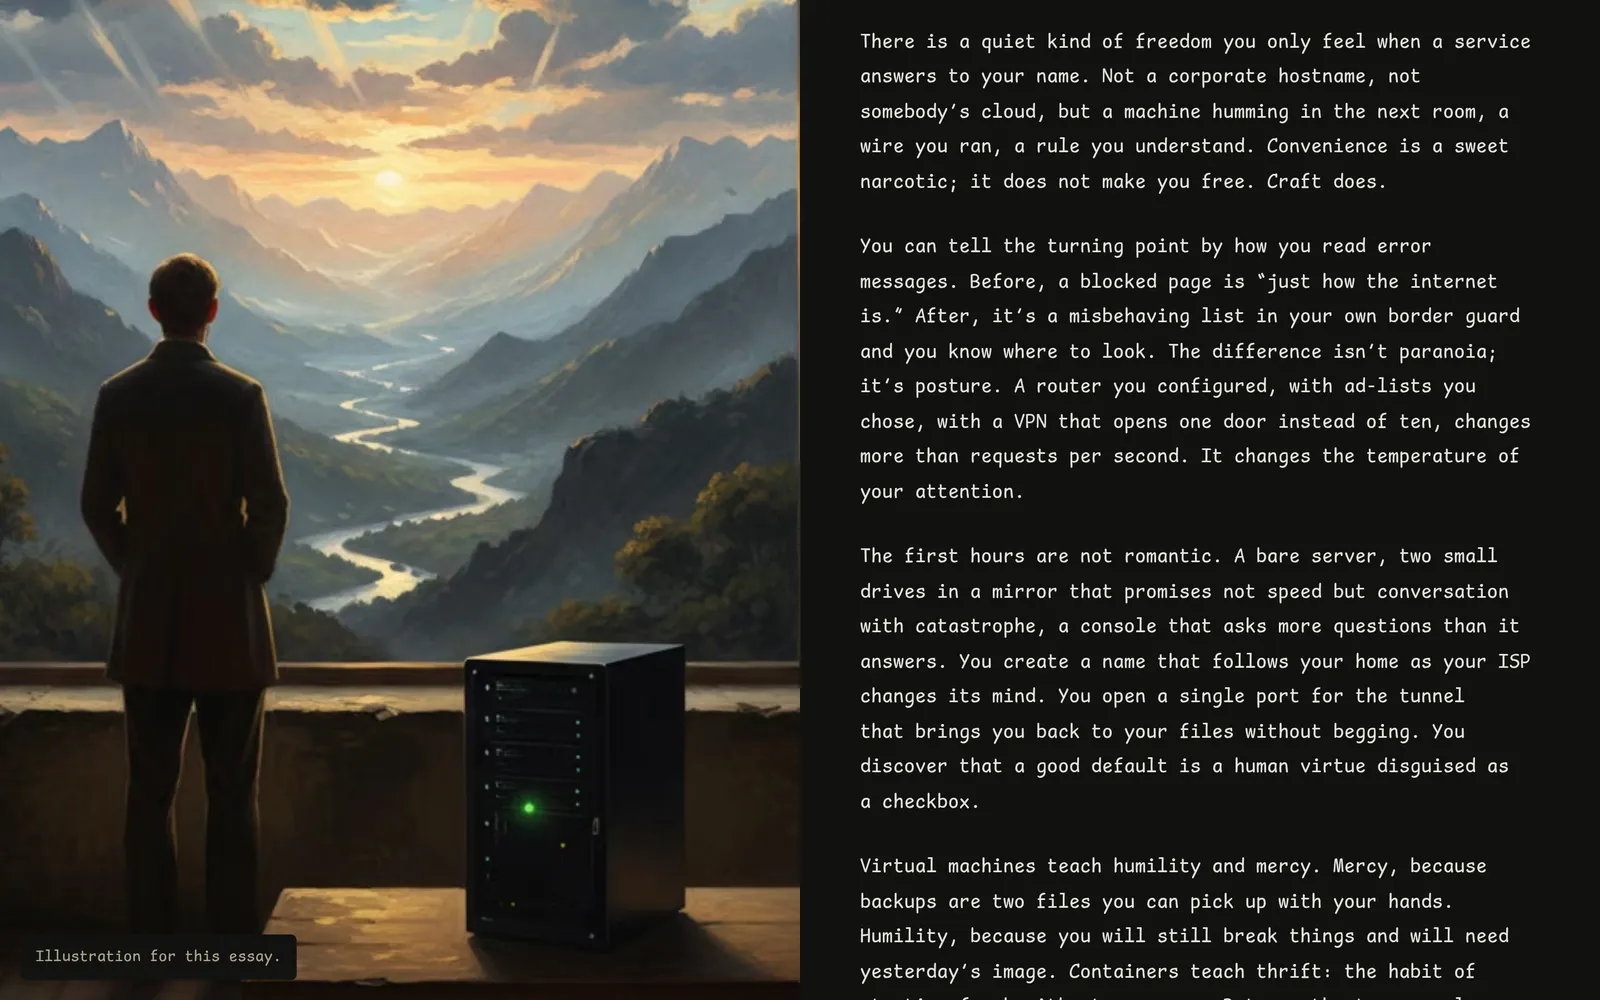
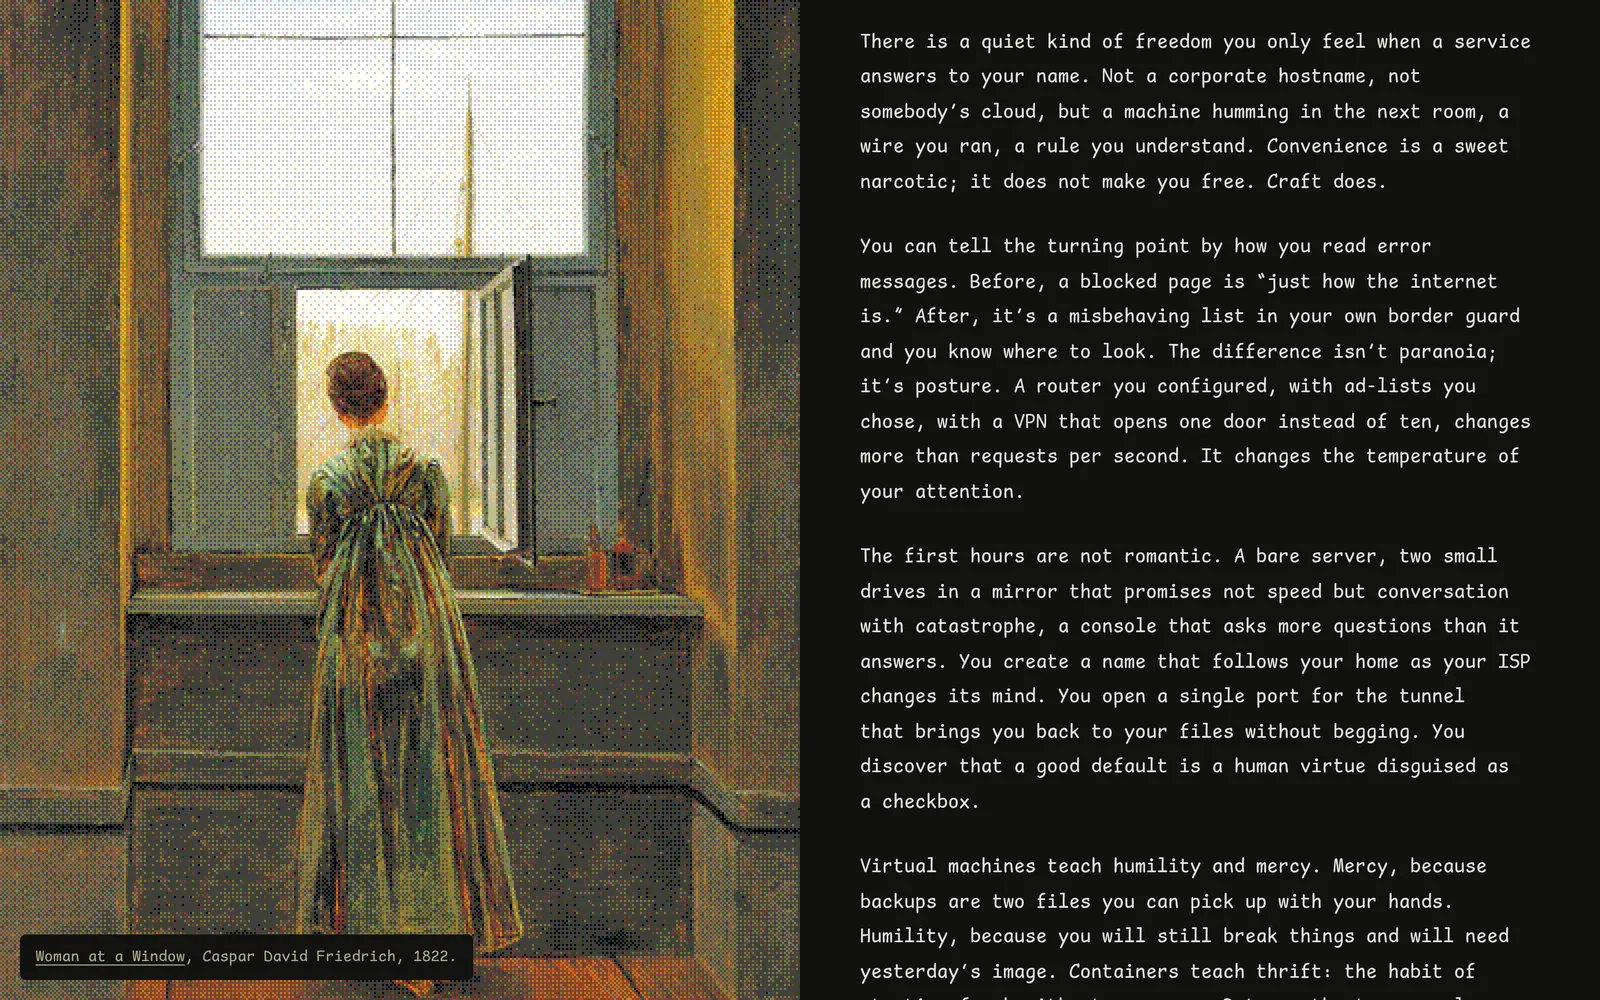
docs: v2.1.0, new screenshots, the painting recipe
- README: every screenshot retaken; a row for the seven paintings; the
  layout, weight and Lighthouse numbers as measured; paint.sh in Add an
  essay and Change a painting; credits for each painting.
- EASTER_EGGS.md: the Galt door and the Assange fix.
- CHANGELOG.md: 2.1.0.

diff --git a/README.md b/README.md
@@ -1,6 +1,6 @@
 # promaa.tech - the personal site of Marc Duboc
 
-**Machines, essays and books, written in one comic monospace beside one painting.** The site of a robotics and embedded systems engineer: five builds, five essays, a bilingual shelf of twenty-one books, and the reading guides that go with it. Live at **[promaa.tech](https://promaa.tech)**.
+**Machines, essays and books, written in one comic monospace, each page beside its own painting.** The site of a robotics and embedded systems engineer: five builds, five essays, a bilingual shelf of twenty-one books, and the reading guides that go with it. Live at **[promaa.tech](https://promaa.tech)**.
 
 ```bash
 python3 -m http.server 8000   # then open http://localhost:8000
@@ -13,7 +13,7 @@ python3 -m http.server 8000   # then open http://localhost:8000
 
 Plain HTML, CSS and a few kilobytes of vanilla JavaScript, served by GitHub Pages straight from `main`. No framework, no build step, no tracker, no cookie. Every page reads fine with JavaScript off.
 
-![The homepage on a wide screen: an AI painting of an astronomer at a brass telescope fills the left half; on the right, Marc Duboc in red and the text in blue ink](.github/readme/home.webp)
+![The homepage on a wide screen: Aivazovsky's The Ninth Wave, redrawn in coloured dots, fills the left half; on the right, Marc Duboc in red and the text in blue ink](.github/readme/home.webp)
 
 ## Gallery
 
@@ -21,17 +21,19 @@ Plain HTML, CSS and a few kilobytes of vanilla JavaScript, served by GitHub Page
 | --- | --- |
 | ![The homepage in the light theme and in the dark theme, side by side](.github/readme/themes.webp) | **By day, by lamplight.** Blue ink on paper, or parchment on a warm black. The theme follows the system, and the toggle remembers your choice. |
 | ![Three phones: the homepage with its tilted postcard, an essay in the dark theme, and the French shelf](.github/readme/phones.webp) | **On a phone** the painting becomes a postcard slipped into the letter. Essays and the shelf keep one readable column. |
-| ![An essay in the dark theme, its illustration held still on the left while the text runs on the right](.github/readme/essay.webp) | **Essays** keep their illustration still on the left while the text scrolls, with previous and next links at the end. |
+| ![An essay in the dark theme: Friedrich's Woman at a Window held still on the left while the text runs on the right](.github/readme/essay.webp) | **Essays** keep their painting still on the left while the text scrolls, with previous and next links at the end. |
+| ![Seven paintings in a row: The Ninth Wave, The Monk by the Sea, Woman before the Rising Sun, Woman at a Window, The Tower of Babel, Max Schmitt in a Single Scull, and Hokusai's whale in blue ink](.github/readme/paintings.webp) | **One painting per page**, all in the public domain: Aivazovsky, Friedrich, Bruegel, Eakins and Hokusai, redrawn in dots. Each one weighs 40 to 100 KB. |
 | ![The bookshelf searched for dumas: one book left, The Count of Monte Cristo](.github/readme/search.webp) | **The shelf** lists twenty-one books in English and French as static HTML. The search narrows it as you type. |
 | ![First page of the reading guide PDF, in the same blue and red monospace](.github/readme/guide.webp) | **Reading guides**: the same shelf typeset as a PDF with XeLaTeX, generated from the same JSON. |
 
 ## Features
 
-- **Diptych layout**: on a wide screen the painting holds the left half while the text scrolls on the right. On a phone it becomes a postcard.
+- **Diptych layout**: on a wide, landscape screen the painting holds the left half while the text scrolls on the right. Phones and upright tablets get a postcard instead, never taller than the screen. On ultra-wide screens the panel stops at 95% of the height and the text is centred in the space left.
+- **Paintings in dots**: public-domain paintings redrawn as 400×500 dots with an ordered dither, saved as lossless WebP at 2×, 3× and 4×. Each page sets the painting's focal point, so the panel crops around the subject at any screen ratio.
 - **One family, one weight**: Comic Shanns Mono, standing in for Comic Code. Hierarchy comes from size and colour only: blue ink, and a red for what matters.
 - **Light and dark**: both themes are designed, not inverted. Theme switches never animate.
 - **Bilingual shelf**: `/books/` and `/books/fr/` are generated from `books/books-en.json` and `books/books-fr.json`, the single source that also feeds the PDF guides.
-- **Fast**: about 12 KB of HTML, CSS and JavaScript on the homepage (gzipped) and one 15 KB font. Images are AVIF with a WebP fallback, sized to their slot. Links prerender on hover with Speculation Rules.
+- **Fast**: the homepage weighs 95 KB in all: about 13 KB of HTML, CSS and JavaScript (gzipped), one 15 KB font and a 50 KB painting. The painting is preloaded and picked from `srcset` by the panel's real size. Links prerender on hover with Speculation Rules.
 - **Accessible**: skip link, visible focus, 44 px targets, landmarks for screen readers, reduced motion respected. Contrast is checked in both themes with axe.
 - **Works without JavaScript**: every page and both shelves are plain HTML. Script adds the theme toggle, the search and the copy button on top.
 - **Prints cleanly**: a print stylesheet turns any page into a plain letter.
@@ -42,11 +44,12 @@ Lighthouse, mobile profile:
 
 | Page | Performance | Accessibility | Best practices | SEO | LCP | CLS |
 | --- | --- | --- | --- | --- | --- | --- |
-| `/` | 100 | 100 | 100 | 100 | 1.8 s | 0 |
-| `/essays/` | 100 | 100 | 100 | 100 | 1.7 s | 0 |
-| `/essays/lucid-hope/` | 100 | 100 | 100 | 100 | 1.4 s | 0 |
+| `/` | 100 | 100 | 100 | 100 | 1.7 s | 0 |
+| `/essays/` | 100 | 100 | 100 | 100 | 1.4 s | 0 |
+| `/essays/lucid-hope/` | 100 | 100 | 100 | 100 | 1.7 s | 0 |
+| `/essays/collapse-of-money/` | 100 | 100 | 100 | 100 | 1.8 s | 0 |
 | `/books/` | 100 | 100 | 100 | 100 | 1.4 s | 0 |
-| `/books/fr/` | 100 | 100 | 100 | 100 | 1.4 s | 0 |
+| `/books/fr/` | 100 | 100 | 100 | 100 | 1.5 s | 0 |
 
 The 404 page is `noindex` on purpose, so it is left out of the SEO column.
 
@@ -87,18 +90,14 @@ AAAA  @   2606:50c0:8003::153
 
 1. Copy an existing essay folder, for example `essays/lucid-hope/`, to `essays/<slug>/`.
 2. In its `index.html`, change the title, the description, the canonical URL, the dates (`<time>`, `article:published_time` and the JSON-LD), and the paragraphs inside `<article class="prose">`.
-3. Replace the illustration, starting from a source image `picture.png`:
+3. Make its painting and its social card (see [Change a painting](#change-a-painting)):
 
 ```bash
-cd essays/<slug>
-for w in 600 1024; do
-  magick picture.png -resize ${w}x -strip -quality 55 picture-$w.avif
-  magick picture.png -resize ${w}x -strip -quality 72 picture-$w.webp
-done
-rm picture.png
+./paint.sh dots crop.png essays/<slug>/painting
+./paint.sh card essays/<slug>/painting "Essay title" "The one-line description." "An essay by Marc Duboc · promaa.tech" essays/<slug>/og.jpg
 ```
 
-4. Set the `width` and `height` of the `<img>` to the 1024px version (`identify picture-1024.webp`) and write a real `alt`.
+4. In the `<figure class="painting">`, write a real `alt`, the credit in the `<figcaption>`, and the focal point in `style="--panel-focus: x% y%"`.
 5. Link it from `essays/index.html`, from the list on the homepage, and from the previous and next essays. Then add it to `sitemap.xml`.
 
 ## Add a book
@@ -137,14 +136,31 @@ magick cover.jpg -resize 240x -strip -quality 82 -interlace JPEG assets/images/b
 
 This needs Python 3, ImageMagick (to read the cover sizes) and [tectonic](https://tectonic-typesetting.github.io/), either on `PATH` or in `.tools/tectonic`. It rewrites `books/index.html`, `books/fr/index.html`, both `.tex` files, and both PDFs in `assets/docs/`.
 
-## Change the painting
+## Change a painting
 
-The homepage painting appears in three places:
-- the `<picture>` in `index.html`;
-- its preload in the `<head>`;
-- `assets/images/og.jpg`, the social preview.
+Every page with a painting has the same three pieces: the `<figure class="painting">`, the image preload in the `<head>`, and a social card (`og.jpg`). `paint.sh` makes the images; it needs ImageMagick 7.
 
-Produce the variants the same way as an essay illustration (`astronomer-400` and `astronomer-853`, in AVIF and WebP). Then update the `alt` and the credit in the `<figcaption>`. If the subject sits off-centre, also adjust `--panel-focus` in `assets/css/tokens.css`.
+1. Pick a picture you may publish, ideally a public-domain painting at least 1600 px tall, with its subject near the middle.
+2. Crop it to 4:5, the ratio of the panel. For example, to keep a 2064 px wide slice starting 810 px from the left:
+
+```bash
+magick source.jpg -crop 2064x2580+810+0 +repage crop.png
+```
+
+3. Make the three sizes, in coloured dots or in the site's blue ink:
+
+```bash
+./paint.sh dots crop.png assets/images/ninth-wave   # ninth-wave-800.webp, -1200, -1600
+./paint.sh ink crop.png assets/images/goto-whaling   # for a print: ink on paper, inverted in the dark theme
+```
+
+4. Make the social card, 1200×630, the painting beside the page title:
+
+```bash
+./paint.sh card assets/images/ninth-wave "Marc Duboc" "Robotics & embedded systems engineer." "promaa.tech · Seoul" assets/images/og.jpg
+```
+
+5. In the page, point the `src`, `srcset` and preload `imagesrcset` at the new files, and write the `alt` and the credit. Set `--panel-focus` on the figure to the point the panel must keep in view when it crops, for example `style="--panel-focus: 40% 80%"` for the sailors at the bottom of *The Ninth Wave*. A print drawn in ink takes the class `painting ink`.
 
 ## Design tokens
 
@@ -153,7 +169,7 @@ Produce the variants the same way as an essay illustration (`astronomer-400` and
 - **Type and space**: fluid `clamp()` scales from [Utopia](https://utopia.fyi), 16 to 18 px between 320 and 1440 px viewports.
 - **Colour**: [Open Props](https://open-props.style) values. Light is blue ink on paper with a red accent. Dark reads the same letter by lamplight: parchment text on a warm black, with the same red for what matters.
 - **Motion**: three tokens, curves from [Kinetics](https://kinetics.colorion.co) sampled into `linear()`. Reduced motion shortens or removes all of them.
-- **Breakpoint**: one, at `56rem`, where the painting becomes a fixed panel. Media queries cannot read custom properties, so the value is written in `site.css` and documented in `tokens.css`.
+- **Breakpoint**: one, at `56rem` on a screen at least 5:4 wide, where the painting becomes a fixed panel `--panel-width` wide. Media queries cannot read custom properties, so the query is written in `site.css` and in each image's `sizes`, and documented in `tokens.css`.
 
 ## Using Comic Code
 
@@ -175,7 +191,14 @@ Changes land through pull requests and are recorded in [CHANGELOG.md](CHANGELOG.
 ## Credits
 
 - **Font**: [Comic Shanns Mono](https://github.com/jesusmgg/comic-shanns-mono) by Shannon Miwa and Jesus Gonzalez, under the MIT licence ([LICENSE](assets/fonts/LICENSE-comic-shanns-mono.md)). A middle dot glyph was added for this site.
-- **Homepage painting**: *The astronomer*, AI-generated, by [Suraajm20 on Pixabay](https://pixabay.com/illustrations/ai-generated-steampunk-astronomer-9610010/), under the [Pixabay Content License](https://pixabay.com/service/license-summary/).
+- **Paintings**, all in the public domain, redrawn in dots for this site:
+  - [*The Ninth Wave*](https://commons.wikimedia.org/wiki/File:Hovhannes_Aivazovsky_-_The_Ninth_Wave_-_Google_Art_Project.jpg), Ivan Aivazovsky, 1850;
+  - [*The Monk by the Sea*](https://commons.wikimedia.org/wiki/File:Caspar_David_Friedrich_-_Der_M%C3%B6nch_am_Meer_-_Google_Art_Project.jpg), Caspar David Friedrich, 1808–1810;
+  - [*Woman before the Rising Sun*](https://commons.wikimedia.org/wiki/File:Caspar_David_Friedrich_-_Frau_vor_untergehender_Sonne.jpg), Caspar David Friedrich, c. 1818;
+  - [*Woman at a Window*](https://commons.wikimedia.org/wiki/File:Caspar_David_Friedrich_-_Frau_am_Fenster_-_Google_Art_Project.jpg), Caspar David Friedrich, 1822;
+  - [*The Tower of Babel*](https://commons.wikimedia.org/wiki/File:Pieter_Bruegel_the_Elder_-_The_Tower_of_Babel_(Vienna)_-_Google_Art_Project_-_edited.jpg), Pieter Bruegel the Elder, 1563;
+  - [*Max Schmitt in a Single Scull*](https://commons.wikimedia.org/wiki/File:The_Champion_Single_Sculls_(Max_Schmitt_in_a_Single_Scull)_MET_DT86.jpg), Thomas Eakins, 1871;
+  - [*Whaling off the Gotō Islands*](https://commons.wikimedia.org/wiki/File:Whaling_off_the_Coast_of_the_Goto_Islands.jpg), Katsushika Hokusai, c. 1833.
 - **Design references**: [Utopia](https://utopia.fyi), [Open Props](https://open-props.style), [Kinetics](https://kinetics.colorion.co), and the checklists of [Rauno Freiberg](https://interfaces.rauno.me) and [ui-skills](https://www.ui-skills.com).
 
 ## Contact

diff --git a/CHANGELOG.md b/CHANGELOG.md
@@ -10,6 +10,34 @@ Each release is a git tag (`vX.Y.Z`) on `main`. Work lands through pull requests
 
 ## [Unreleased]
 
+## [2.1.0] - 2026-10-01
+
+### Added
+- A painting for every page, all in the public domain and redrawn in dots (an 8×8 ordered dither, 400×500 dots):
+  - the homepage: *The Ninth Wave*, Ivan Aivazovsky;
+  - *The Work of Writing*: *The Monk by the Sea*, Caspar David Friedrich;
+  - *Lucid Hope*: *Woman before the Rising Sun*, Friedrich;
+  - *Domestic Sovereignty*: *Woman at a Window*, Friedrich;
+  - *The Collapse of Money*: *The Tower of Babel*, Pieter Bruegel the Elder;
+  - *The Unspoken Dialogue*: *Max Schmitt in a Single Scull*, Thomas Eakins;
+  - the essay list: Hokusai's *Whaling off the Gotō Islands* in the site's blue ink, turned to light lines in the dark theme.
+- `paint.sh`, which makes a painting in three sizes and a page's 1200×630 social card.
+- A social card for each essay and for the essay list.
+
+### Changed
+- Paintings are lossless WebP at 2×, 3× and 4× their dots: every dot stays sharp, and each file weighs 40 to 100 KB, where lossy WebP needed 600 KB for the same image. The homepage weighs 95 KB in all, font and painting included.
+- The fixed panel appears only on landscape screens (56rem and wider, 5:4 or wider). Tablets held upright get the postcard, which never grows taller than 75% of the screen, so a phone held sideways still shows it whole.
+- On ultra-wide screens the panel stops at 95% of the screen height and the text is centred in the space left.
+- Each painting sets its own focal point, so the panel crops around the subject.
+- `sizes` accounts for the panel's height, so a tablet in landscape loads a sharp enough image.
+- The Galt door under the homepage painting reads *Who set the dots?*
+
+### Removed
+- The AI paintings: the astronomer on the homepage and the essay illustrations, landscape pictures that the portrait panel cropped badly.
+
+### Fixed
+- The Assange note reopened as soon as its Close button was clicked: the selection that opened it was still there, so the click counted as selecting it again. The selection is now cleared when the note opens.
+
 ## [2.0.2] - 2026-10-01
 
 ### Fixed
@@ -72,7 +100,8 @@ The legacy easter-egg portfolio, as published on promaa.tech.
 - Three cinematic easter eggs: Galt, Monte Cristo, Assange.
 - Five essays, the bilingual book shelf, and the LaTeX reading guides (EN/FR).
 
-[Unreleased]: https://github.com/promaaa/personal-website/compare/v2.0.2...HEAD
+[Unreleased]: https://github.com/promaaa/personal-website/compare/v2.1.0...HEAD
+[2.1.0]: https://github.com/promaaa/personal-website/compare/v2.0.2...v2.1.0
 [2.0.2]: https://github.com/promaaa/personal-website/compare/v2.0.1...v2.0.2
 [2.0.1]: https://github.com/promaaa/personal-website/compare/v2.0.0...v2.0.1
 [2.0.0]: https://github.com/promaaa/personal-website/compare/v1.0.0...v2.0.0

diff --git a/EASTER_EGGS.md b/EASTER_EGGS.md
@@ -14,9 +14,9 @@ Spoilers below.
 
 | Egg | Layer | Trigger | Idea | File |
 | --- | --- | --- | --- | --- |
-| **Galt** | obvious | *Who painted this?* under the painting; type `galt`; `#galt` | An AI painting has no painter, so the question has no answer, like *Who is John Galt?* It opens the motor of the world, a drawing whose rotor turns, with an opt-in hum. | `assets/js/eggs/galt.js` |
+| **Galt** | obvious | *Who set the dots?* under the homepage painting; type `galt`; `#galt` | Aivazovsky painted the wave; a machine set the dots, and nobody signs a machine, so the question has no answer, like *Who is John Galt?* It opens the motor of the world, a drawing whose rotor turns, with an opt-in hum. | `assets/js/eggs/galt.js` |
 | **Monte-Cristo** | hinted | Stay still for 60 seconds and a *P.P.S. wait and hope* appears; type `dantes` or `attendre`; `#montecristo` | Only those who wait see it. It shows Dantès's last words, in French and English. | `assets/js/eggs/montecristo.js` |
-| **Assange** | hinted | Select the struck-out P.S. at the end of the homepage; type `assange`; `#wikileaks` | A line in black ink that selection reveals (CSS only), then the portrait: “Courage is contagious.” | `assets/js/eggs/assange.js` |
+| **Assange** | hinted | Select the struck-out P.S. at the end of the homepage; type `assange`; `#wikileaks` | A line in black ink that selection reveals (CSS only), then the portrait: “Courage is contagious.” Opening the note clears the selection, so closing it does not select the line again. | `assets/js/eggs/assange.js` |
 | **Snowden** | hinted | An HTML comment at the top of the homepage source points to `#permanent-record` | Shows everything the site stores about you (only `localStorage`: theme and eggs), with a *Forget me* button. | `assets/js/eggs/snowden.js` |
 | **The Gambler** | hinted | The 404 page: *spin the wheel* | Returned to sender. The egg counts only when the wheel stops on zero, as it did for the grandmother. | `assets/js/eggs/gambler.js`, `404.html` |
 | **Verne** | obscure | Visit when it is already tomorrow in Seoul; the dateline then reads *(posted tomorrow, for you)*. Also type `fogg`; `#fogg` | Phileas Fogg gained a day travelling east. | `assets/js/eggs/verne.js` |
